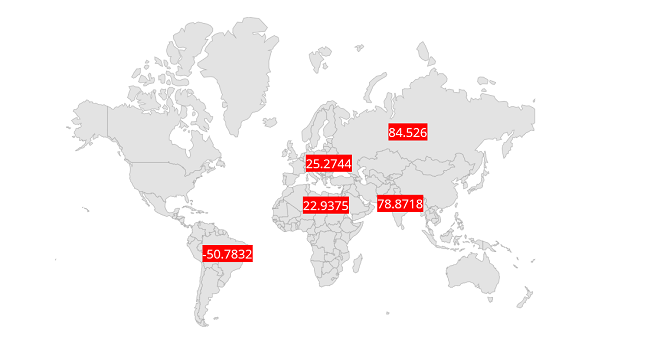
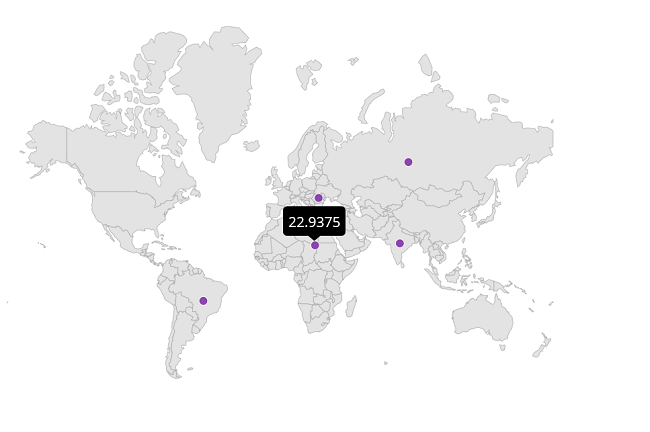
Updated code review changes

diff --git a/MAUI/Maps/tooltip.md b/MAUI/Maps/tooltip.md
@@ -441,37 +441,33 @@ Data template selector can be customized the appearance of each item with differ
 
 	<ContentPage.Resources>
         <ResourceDictionary>
-            <DataTemplate x:Key="HighPopulationTemplate">
+            <DataTemplate x:Key="MarkerTooltipTemplate1">
                 <StackLayout IsClippedToBounds="false"
                          HorizontalOptions="StartAndExpand"
-                         VerticalOptions="Center"
-                         HeightRequest="30">
+                         VerticalOptions="Center">
                     <Label Text="{Binding Longitude}"
                            Scale="1"
-                           TextColor="Yellow"
-                           BackgroundColor="Red"
+                           TextColor="Blue"
                            HorizontalOptions="StartAndExpand"
                        VerticalOptions="Center" />
                 </StackLayout>
             </DataTemplate>
 			
-            <DataTemplate x:Key="LowPopulationTemplate">
+            <DataTemplate x:Key="MarkerTooltipTemplate2">
                 <StackLayout IsClippedToBounds="false"
                          HorizontalOptions="StartAndExpand"
-                         VerticalOptions="Center"
-                         HeightRequest="30">
+                         VerticalOptions="Center">
                      <Label Text="{Binding Longitude}"
                            Scale="1"
                            TextColor="White"
-                           BackgroundColor="Red"
                            HorizontalOptions="StartAndExpand"
                        VerticalOptions="Center" />
                 </StackLayout>
             </DataTemplate>
 			
 			<local:MarkerTemplateSelector x:Key="MarkerTemplateSelector"
-										  Template1="{StaticResource LowPopulationTemplate}"
-										  Template2="{StaticResource HighPopulationTemplate}" />
+										  Template1="{StaticResource MarkerTooltipTemplate1}"
+										  Template2="{StaticResource MarkerTooltipTemplate2}" />
         </ResourceDictionary>
     </ContentPage.Resources>
 	
@@ -480,7 +476,10 @@ Data template selector can be customized the appearance of each item with differ
               <map:MapShapeLayer x:Name="layer"
 								 ShapesSource="https://cdn.syncfusion.com/maps/map-data/world-map.json"
 								 ShapeStroke="DarkGrey"
-								 MarkerTooltipTemplate={StaticResource MarkerTemplateSelector}>
+                                 ShowMarkerTooltip="True"
+                                 ShapeHoverFill="Transparent"
+                                 ShapeHoverStroke="Transparent"
+								 MarkerTooltipTemplate="{StaticResource MarkerTemplateSelector}">
 									
                  <map:MapShapeLayer.Markers>
 					<map:MapMarkerCollection>

diff --git a/MAUI/Maps/markers.md b/MAUI/Maps/markers.md
@@ -587,7 +587,7 @@ Data template selector can be customized the appearance of each item with differ
 
 	<ContentPage.Resources>
         <ResourceDictionary>
-            <DataTemplate x:Key="HighPopulationTemplate">
+            <DataTemplate x:Key="MarkerTemplate1">
                 <StackLayout IsClippedToBounds="false"
                          HorizontalOptions="StartAndExpand"
                          VerticalOptions="Center"
@@ -601,7 +601,7 @@ Data template selector can be customized the appearance of each item with differ
                 </StackLayout>
             </DataTemplate>
 			
-            <DataTemplate x:Key="LowPopulationTemplate">
+            <DataTemplate x:Key="MarkerTemplate2">
                 <StackLayout IsClippedToBounds="false"
                          HorizontalOptions="StartAndExpand"
                          VerticalOptions="Center"
@@ -616,8 +616,8 @@ Data template selector can be customized the appearance of each item with differ
             </DataTemplate>
 			
 			<local:MarkerTemplateSelector x:Key="MarkerTemplateSelector"
-										  Template1="{StaticResource LowPopulationTemplate}"
-										  Template2="{StaticResource HighPopulationTemplate}" />
+										  Template1="{StaticResource MarkerTemplate1}"
+										  Template2="{StaticResource MarkerTemplate2}" />
 			
         </ResourceDictionary>
     </ContentPage.Resources>
@@ -626,7 +626,7 @@ Data template selector can be customized the appearance of each item with differ
         <map:SfMaps.Layer>
             <map:MapShapeLayer ShapesSource="https://cdn.syncfusion.com/maps/map-data/world-map.json"
 							   ShapeStroke="DarkGrey"
-							   MarkerTemplate={StaticResource MarkerTemplateSelector}>
+							   MarkerTemplate="{StaticResource MarkerTemplateSelector}">
 							   
             <map:MapShapeLayer.Markers>
                 <map:MapMarkerCollection>
